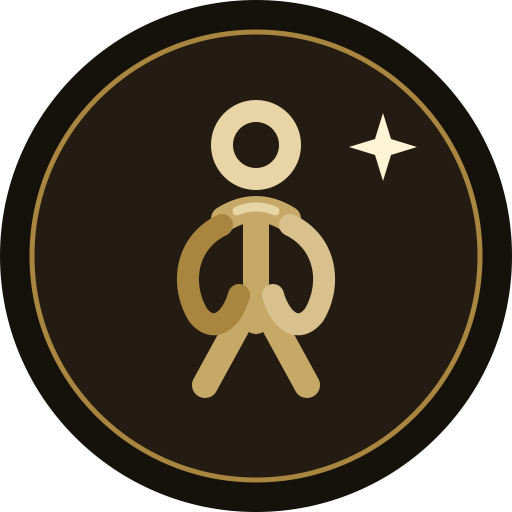
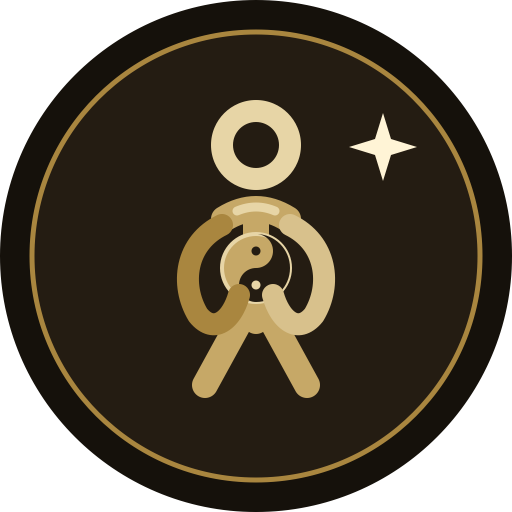
feat: add unified gold taiji launcher for 0.1.3

Changed region(s): [[0.4062, 0.4375, 0.5625, 0.5938], [0.5625, 0.5, 0.5938, 0.5625]]

diff --git a/mobile/src/test/kotlin/app/zhanzhuang/timer/mobile/ui/ResourceIdentityContractTest.kt b/mobile/src/test/kotlin/app/zhanzhuang/timer/mobile/ui/ResourceIdentityContractTest.kt
@@ -54,10 +54,21 @@ class ResourceIdentityContractTest {
         assertTrue(foreground.contains("android:strokeLineCap=\"round\""))
         assertTrue(foreground.contains("android:strokeLineJoin=\"round\""))
         assertTrue(foreground.contains("android:fillColor=\"#00000000\""))
+        assertTrue(foreground.contains("android:name=\"gold_taiji\""))
+        assertTrue(foreground.contains("android:name=\"taiji_soil_half\""))
+        assertTrue(foreground.contains("android:name=\"taiji_gold_dot\""))
+        assertTrue(foreground.contains("android:name=\"taiji_soil_dot\""))
         assertFalse(foreground.contains("M50,27L58,27L60,43"))
+
+        val monochrome = resource("drawable/ic_launcher_monochrome.xml").readText()
+        assertTrue(monochrome.contains("android:name=\"taiji_mark\""))
 
         val svg = File("../fastlane/assets-source/icon.svg").readText()
         assertTrue(svg.contains("id=\"holding-ball-figure\""))
+        assertTrue(svg.contains("id=\"gold-taiji\""))
+        assertTrue(svg.contains("id=\"taiji-soil-half\""))
+        assertTrue(svg.contains("id=\"taiji-gold-dot\""))
+        assertTrue(svg.contains("id=\"taiji-soil-dot\""))
         assertTrue(svg.contains("stroke-linecap=\"round\""))
         assertTrue(svg.contains("stroke-linejoin=\"round\""))
         assertFalse(svg.contains("<text"))

diff --git a/wear/src/test/kotlin/app/zhanzhuang/timer/wear/ResourceIdentityContractTest.kt b/wear/src/test/kotlin/app/zhanzhuang/timer/wear/ResourceIdentityContractTest.kt
@@ -45,10 +45,21 @@ class ResourceIdentityContractTest {
         assertTrue(foreground.contains("android:strokeLineCap=\"round\""))
         assertTrue(foreground.contains("android:strokeLineJoin=\"round\""))
         assertTrue(foreground.contains("android:fillColor=\"#00000000\""))
+        assertTrue(foreground.contains("android:name=\"gold_taiji\""))
+        assertTrue(foreground.contains("android:name=\"taiji_soil_half\""))
+        assertTrue(foreground.contains("android:name=\"taiji_gold_dot\""))
+        assertTrue(foreground.contains("android:name=\"taiji_soil_dot\""))
         assertFalse(foreground.contains("M50,27L58,27L60,43"))
+
+        val monochrome = resource("drawable/ic_launcher_monochrome.xml").readText()
+        assertTrue(monochrome.contains("android:name=\"taiji_mark\""))
 
         val svg = File("../fastlane/assets-source/icon.svg").readText()
         assertTrue(svg.contains("id=\"holding-ball-figure\""))
+        assertTrue(svg.contains("id=\"gold-taiji\""))
+        assertTrue(svg.contains("id=\"taiji-soil-half\""))
+        assertTrue(svg.contains("id=\"taiji-gold-dot\""))
+        assertTrue(svg.contains("id=\"taiji-soil-dot\""))
         assertTrue(svg.contains("stroke-linecap=\"round\""))
         assertTrue(svg.contains("stroke-linejoin=\"round\""))
         assertFalse(svg.contains("<text"))

diff --git a/docs/superpowers/plans/2026-08-03-zhanzhuang-0.1.3-taiji-icon.md b/docs/superpowers/plans/2026-08-03-zhanzhuang-0.1.3-taiji-icon.md
@@ -1,0 +1,108 @@
+# Zhan Zhuang 0.1.3 Taiji Icon Implementation Plan
+
+> **For agentic workers:** REQUIRED SUB-SKILL: Use superpowers:subagent-driven-development (recommended) or superpowers:executing-plans to implement this plan task-by-task. Steps use checkbox (`- [ ]`) syntax for tracking.
+
+**Goal:** Ship phone and Wear internal builds whose launcher and Play listing consistently show the approved gold taiji held by the standing figure.
+
+**Architecture:** Keep the icon deterministic and native: Android adaptive foreground/monochrome VectorDrawables for both modules, one canonical SVG for Play assets, and generated 512 px RGBA locale copies. Preserve one package ID with distinct phone and Wear version-code ranges, and upload only to their existing internal tracks.
+
+**Tech Stack:** Android VectorDrawable, adaptive icons, SVG/PNG, Kotlin/JVM resource contract tests, Gradle, Fastlane Supply, Android Publisher readback.
+
+## Global Constraints
+
+- Application ID remains `app.zhanzhuang.timer`.
+- Version is `0.1.3`; phone code is `1000004`; Wear code is `2000004`.
+- Palette remains deep soil `#15110B` / `#241C12`, reflective gold `#C6A867`, deep gold `#A9863F`, gold highlight `#E7D5A6`, gold sheen `#D8C18C`, and sparkle `#FFF4D6`.
+- Phone and Wear foreground assets must be structurally identical.
+- The held mark is a gold-and-soil taiji with two contrasting dots, not an open circle.
+- Publish only to `internal` and `wear:internal`; production stays unchanged.
+
+---
+
+### Task 1: Unify the launcher identity
+
+**Files:**
+- Modify: `mobile/src/main/res/drawable/ic_launcher_foreground.xml`
+- Modify: `mobile/src/main/res/drawable/ic_launcher_monochrome.xml`
+- Modify: `wear/src/main/res/drawable/ic_launcher_foreground.xml`
+- Modify: `wear/src/main/res/drawable/ic_launcher_monochrome.xml`
+- Modify: `fastlane/assets-source/icon.svg`
+- Modify: `fastlane/metadata/android/{en-GB,en-US,zh-CN}/images/icon.png`
+- Test: `mobile/src/test/kotlin/app/zhanzhuang/timer/mobile/ui/ResourceIdentityContractTest.kt`
+- Test: `wear/src/test/kotlin/app/zhanzhuang/timer/wear/ResourceIdentityContractTest.kt`
+
+**Interfaces:**
+- Consumes: approved Urticad earth/gold palette and current holding-ball figure geometry.
+- Produces: named `gold_taiji`, `taiji_soil_half`, `taiji_gold_dot`, and `taiji_soil_dot` vector parts plus canonical SVG equivalents.
+
+- [x] **Step 1: Add failing resource assertions for the taiji parts in both modules.**
+- [x] **Step 2: Run both resource contract tests and observe failure at the new assertions.**
+- [x] **Step 3: Add the gold taiji to phone, Wear, monochrome, and SVG assets.**
+- [x] **Step 4: Regenerate the three 512 px RGBA Play icons and visually inspect the canonical preview.**
+- [x] **Step 5: Re-run resource and release-image contract tests and observe success.**
+
+### Task 2: Assign immutable 0.1.3 release identity
+
+**Files:**
+- Modify: `mobile/build.gradle.kts`
+- Modify: `wear/build.gradle.kts`
+- Modify: `scripts/run_android_checks.sh`
+- Modify: `scripts/verify_release.sh`
+- Modify: `scripts/tests/release_evidence_contract_test.sh`
+- Modify: `scripts/tests/verify_release_contract_test.sh`
+- Create: `fastlane/metadata/android/{en-GB,en-US,zh-CN}/changelogs/1000004.txt`
+- Create: `fastlane/metadata/android/{en-GB,en-US,zh-CN}/changelogs/2000004.txt`
+
+**Interfaces:**
+- Consumes: completed 0.1.2 internal tracks at codes `1000003` and `2000003`.
+- Produces: version `0.1.3`, phone code `1000004`, Wear code `2000004`.
+
+- [x] **Step 1: Change release-contract expectations to 0.1.3 / 1000004 / 2000004 and verify RED.**
+- [x] **Step 2: Update Gradle and verifier identities.**
+- [x] **Step 3: Add concise localized changelogs describing the unified gold taiji icon.**
+- [x] **Step 4: Run both release-contract scripts and verify GREEN.**
+
+### Task 3: Verify and sign both release bundles
+
+**Files:**
+- Verify: `mobile/build/outputs/bundle/release/mobile-release.aab`
+- Verify: `wear/build/outputs/bundle/release/wear-release.aab`
+- Modify: `docs/release/internal-release-evidence.md`
+
+**Interfaces:**
+- Consumes: repo-external keystore values from 1Password and versioned source.
+- Produces: signed phone and Wear AABs with verified manifests, certificate fingerprint, byte sizes, and SHA-256 hashes.
+
+- [x] **Step 1: Run `scripts/run_android_checks.sh` with explicit Java 17 and Android SDK paths.**
+- [x] **Step 2: Build signed release bundles with repo-external signing secrets.**
+- [x] **Step 3: Run `scripts/verify_release.sh` against the signed AABs.**
+- [ ] **Step 4: Record artifact hashes and automated test evidence.**
+
+### Task 4: Upload and read back internal tracks
+
+**Files:**
+- Modify: `docs/release/internal-release-evidence.md`
+- Modify: `docs/qa/pixel-watch-4-results.md`
+
+**Interfaces:**
+- Consumes: signed 0.1.3 AABs and repo-external Google Play service-account JSON.
+- Produces: completed `internal=1000004` and `wear:internal=2000004` Play releases, with production unchanged.
+
+- [ ] **Step 1: Read current phone, Wear, and production track state.**
+- [ ] **Step 2: Upload phone AAB to `internal` with release status `completed`.**
+- [ ] **Step 3: Upload Wear AAB to `wear:internal` with release status `completed`.**
+- [ ] **Step 4: Read back both tracks and confirm production remains 0.1.0.**
+
+### Task 5: Complete physical-device proof when ADB is available
+
+**Files:**
+- Modify: `docs/qa/pixel-watch-4-results.md`
+
+**Interfaces:**
+- Consumes: Pixel phone and Pixel Watch 4 with 0.1.3 installed.
+- Produces: launcher-icon, cold-launch, watch-start, phone reflection, pause/resume, completion, reconnect, and duplicate-prevention results.
+
+- [ ] **Step 1: Confirm Mac enumerates the phone or watch with `adb devices -l`.**
+- [ ] **Step 2: Install the matching build and verify the gold taiji launcher on phone and watch.**
+- [ ] **Step 3: Run the paired session matrix and collect anonymized evidence.**
+- [ ] **Step 4: Record Pass/Fail/Not run without treating missing ADB as a product pass.**

diff --git a/fastlane/assets-source/ALT_TEXT.md b/fastlane/assets-source/ALT_TEXT.md
@@ -2,7 +2,7 @@
 
 The icon and feature graphic are deterministic SVG source files rendered locally with macOS `sips`; they extend the existing deep-soil, gold line-art, and single-sparkle launcher identity. They contain no generated bitmap artwork.
 
-- `icon.svg`: front-facing standing figure drawn in thick rounded gold lines, with curved arms holding an open ball shape at chest height in a deep-soil circle and one restrained four-point sparkle.
+- `icon.svg`: front-facing standing figure drawn in thick rounded gold lines, with curved arms holding a gold-and-soil taiji at chest height in a deep-soil circle and one restrained four-point sparkle.
 - `feature-graphic.svg`: warm paper banner with an abstract gold standing silhouette, a gold timer ring, and a single sparkle; it intentionally contains no health values or claims.
 - Phone screenshots: captured from the actual debug phone app on `zhan_zhuang_task10_phone_api36` (Pixel 8, Android API 36) at native emulator viewports; duration, interval, history, and privacy are real app states. The bilingual settings captures are 1080×2160, with the app locale asserted before capture.
 - Wear screenshots: captured from the actual debug Wear app on `zhan_zhuang_task10_wear_api33` (`wearos_large_round`, Wear OS 4 / API 33, 454×454); setup and heart-rate-permission/duration-only states contain no invented live heart-rate values. The setup and permission labels were asserted from the rendered UI before capture.

diff --git a/docs/design-system.md b/docs/design-system.md
@@ -18,4 +18,4 @@ Use default English and `zh-rCN` resources with exact key parity. Do not concate
 
 ## Launcher mark
 
-Both apps use adaptive, round, legacy foreground/background, and monochrome launcher assets. The mark is a centered standing gold pillar/figure on a deep-soil circle with exactly one four-point sparkle and no text. The 108 dp adaptive foreground preserves generous optical margins so the silhouette remains inside Android and round Wear masks.
+Both apps use adaptive, round, legacy foreground/background, and monochrome launcher assets. The mark is a centered standing gold figure holding a gold-and-soil taiji at chest height on a deep-soil circle, with exactly one four-point sparkle and no text. The 108 dp adaptive foreground preserves generous optical margins so the silhouette remains inside Android and round Wear masks.
